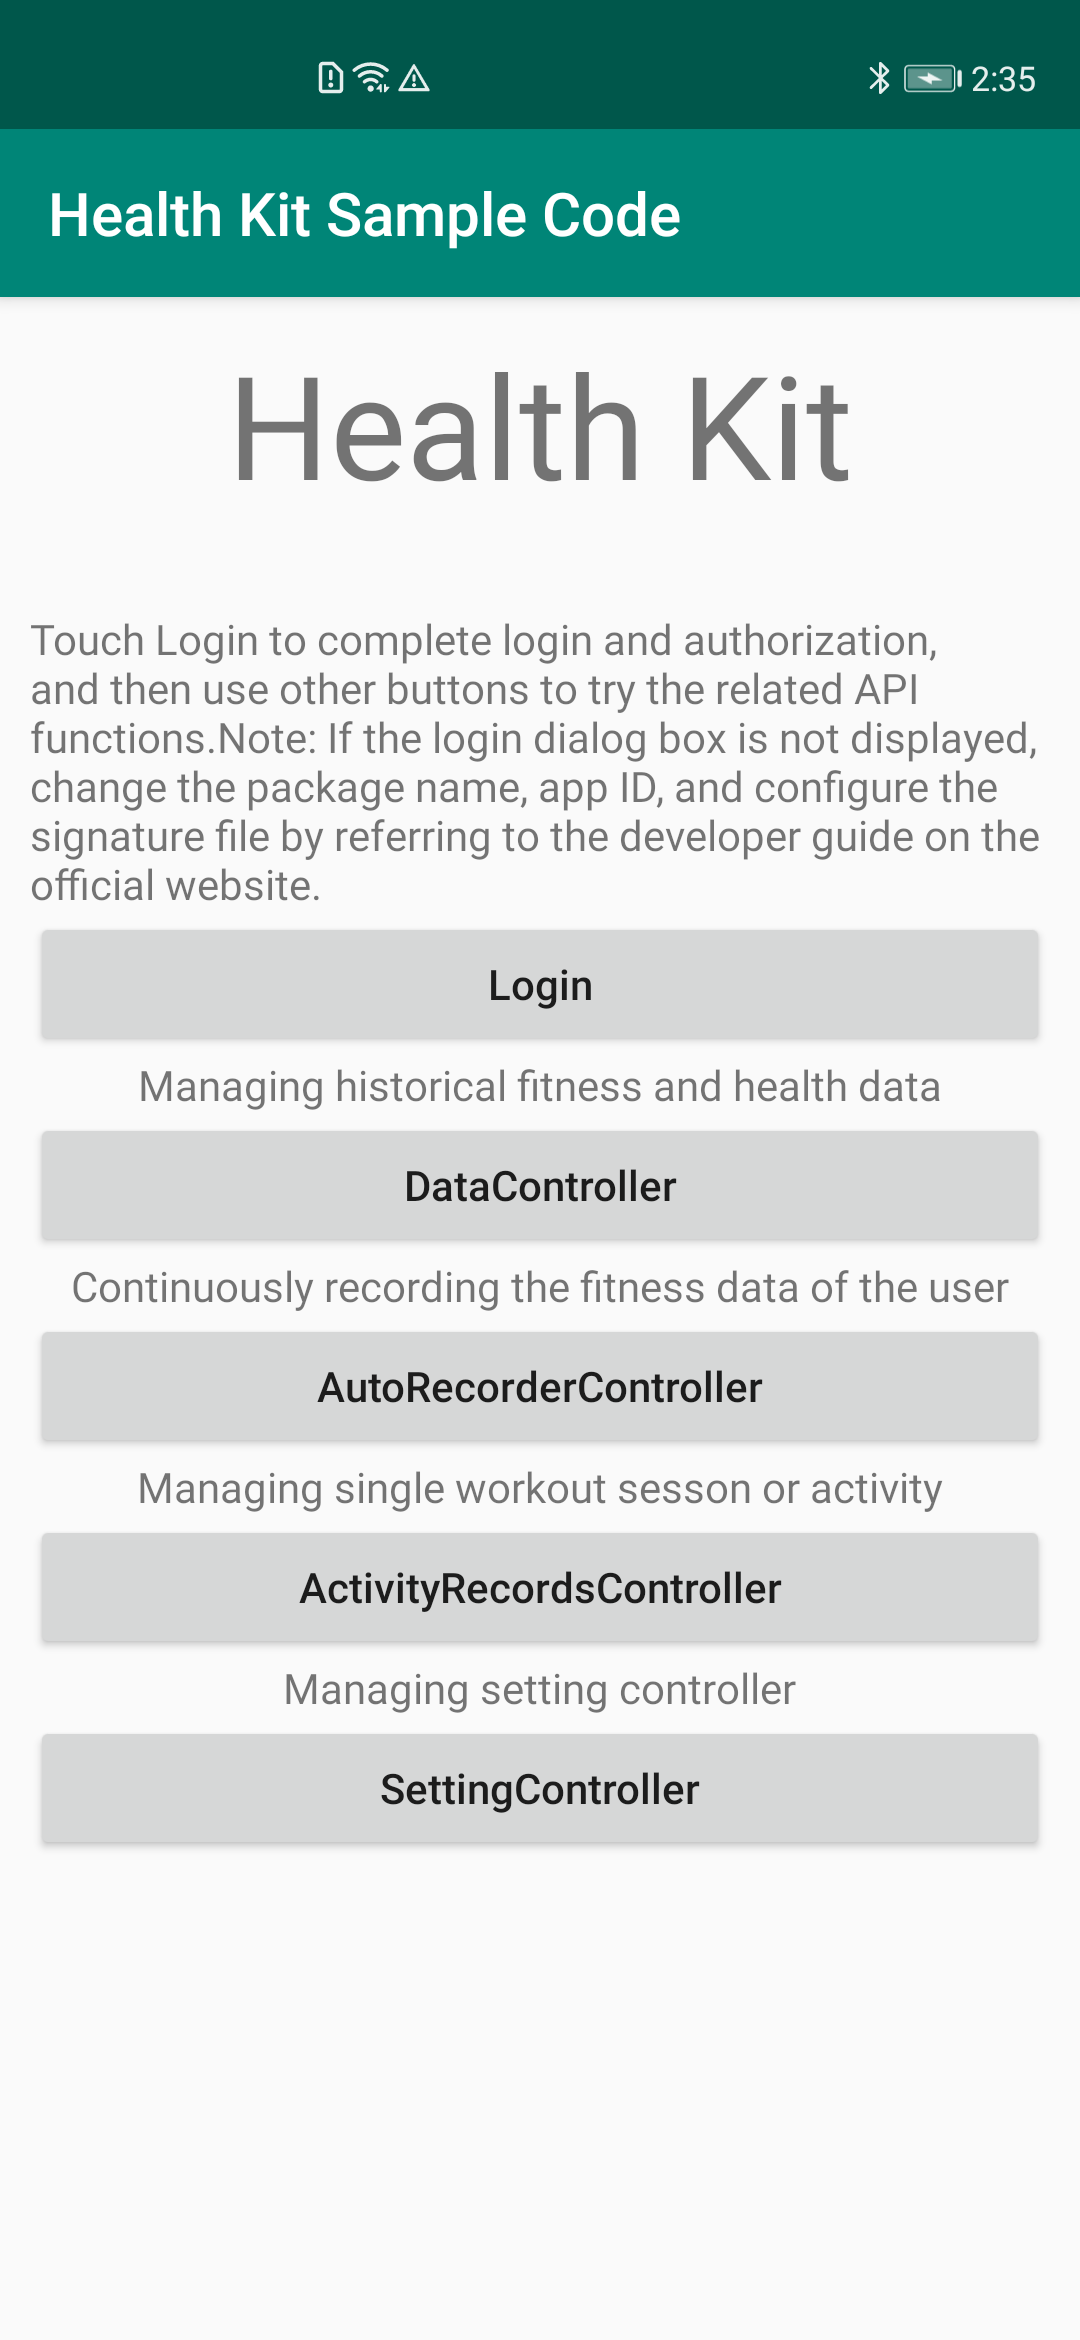
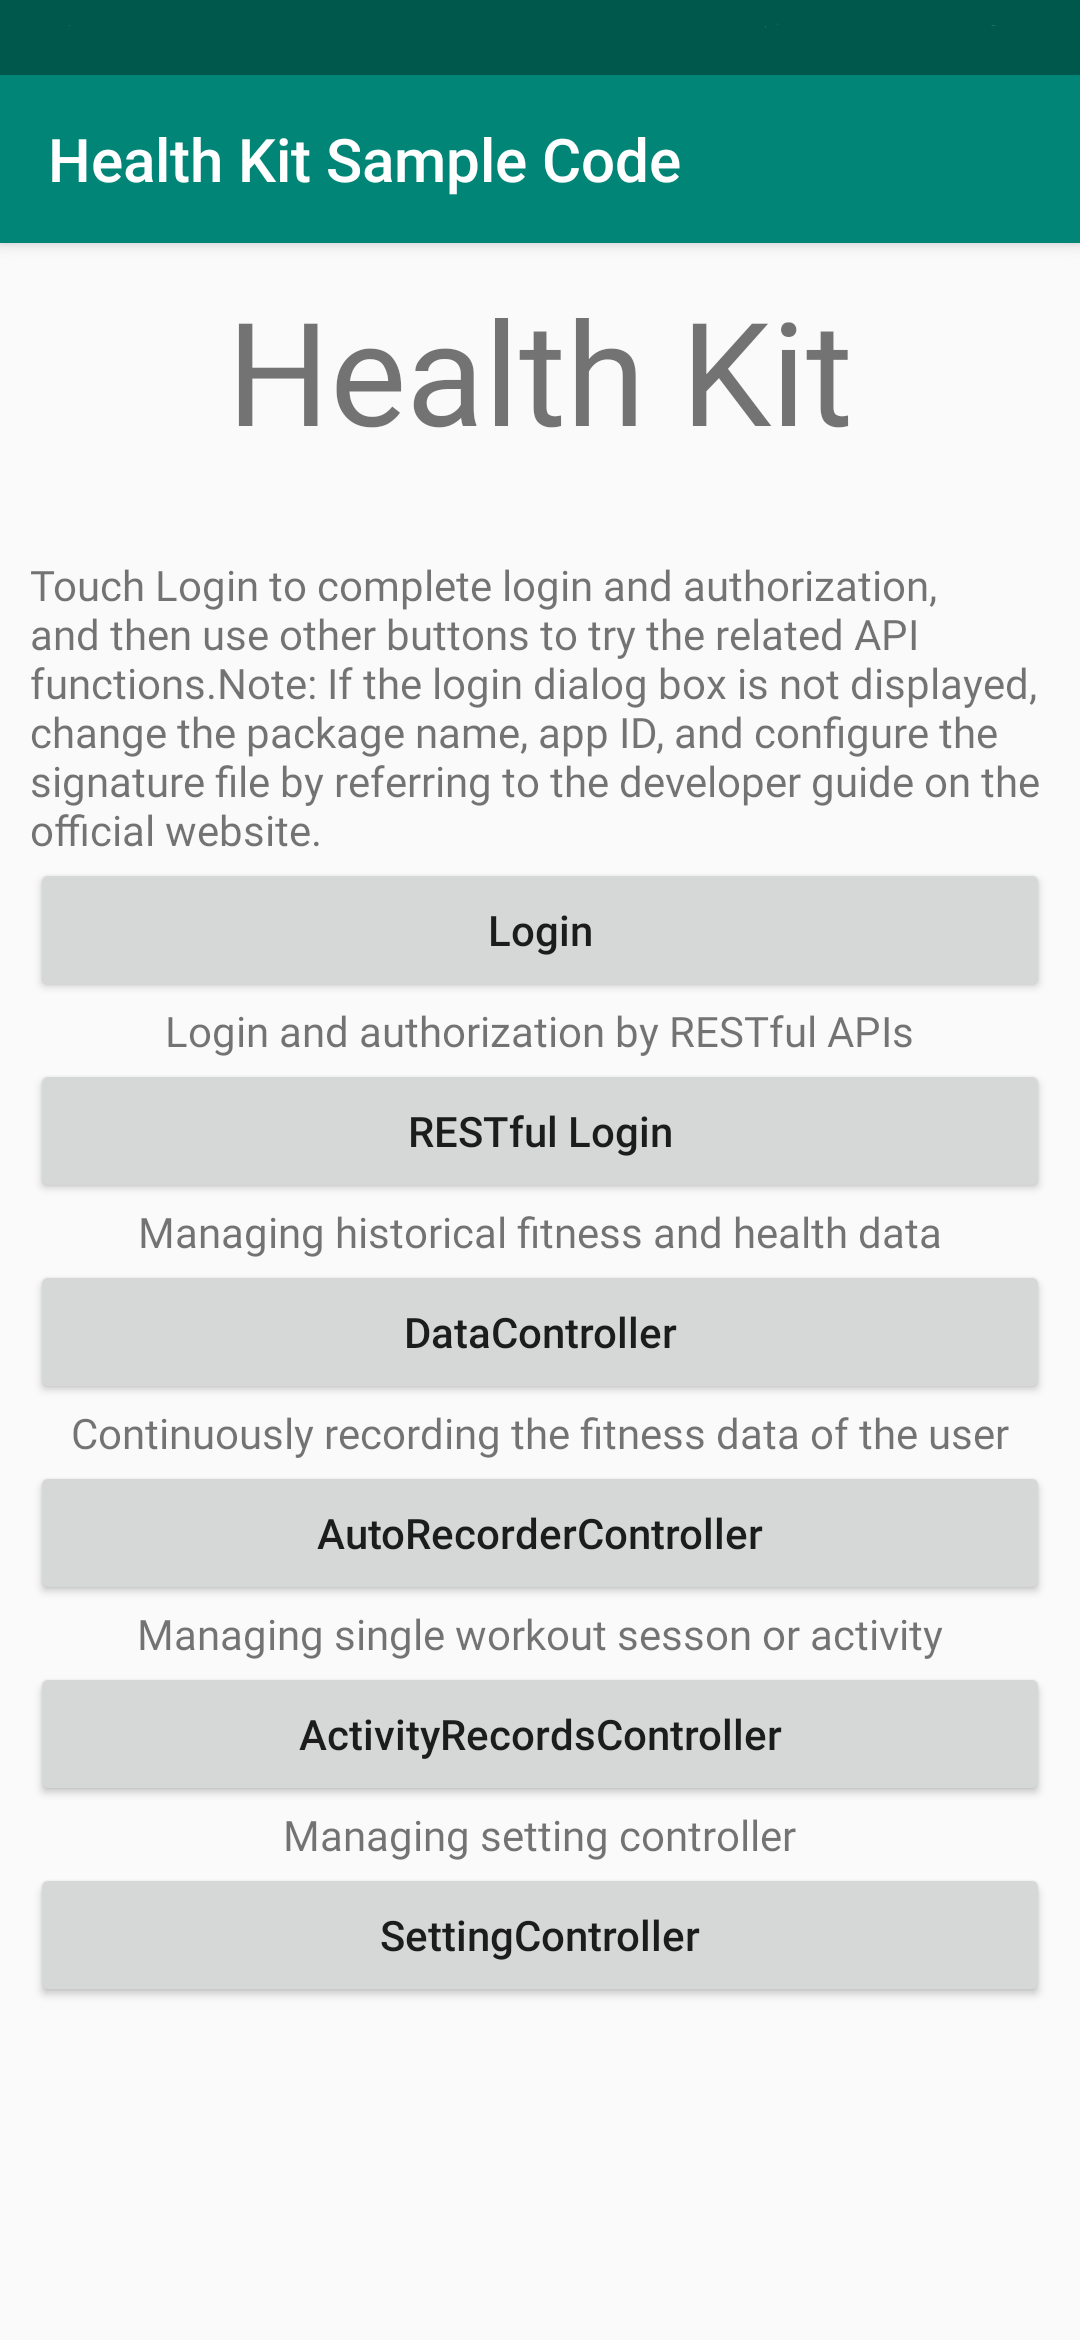
add Huawei Health auth demo

diff --git a/README_ZH.md b/README_ZH.md
@@ -18,34 +18,34 @@
 华为运动健康服务功能如下：  
 1) 	登录与授权  
 支持用户登录账号并获取用户对运动健康数据读写授权。  
-代码位置:  \app\src\main\java\com\huawei\demo\hihealth\HihealthKitMainActivity.java   
+Android APIs代码位置:  \app\src\main\java\com\huawei\demo\health\auth\HealthKitAuthClientActivity.java    
+RESTful APIs代码位置:  \app\src\main\java\com\huawei\demo\health\auth\HealthKitAuthCloudActivity.java   
 
 2) 	运动健康数据管理  
 支持用户对已授权的健康运动数据进行增加/删除/更新/查询等操作。  
 代码位置: \app\src\main\java\com\huawei\demo\hihealth\HihealthKitDataManagerActivity.java
 
-    
+
 3)	用户运动健康传感器接入  
 支持用户接入标准蓝牙协议传感器设备，并使用用户已授权的运动健康数据类型实时获取传感器设备数据。  
 代码位置: \app\src\main\java\com\huawei\demo\hihealth\HiHealthKitSensorsControllerActivity.java  
-   
+
 4)	自动记录用户接入设备的运动健康数据  
 支持在用户授权条件下，用户添加对接入的运动健康传感器的监听，并将传感器中的数据以用户已授权的运动健康数据类型实时写入到生态数据平台。  
 代码位置: \app\src\main\java\com\huawei\demo\hihealth\HiHealthKitAutoRecorderControllerActivity.java  
-   
-    
+
+
 5)	运动记录数据集操作  
 支持用户写入运动包含及其全部用户已授权的运动健康数据集，例如一次跑步运动包括跑步的开始时间，结束时间，以及运动数据（轨迹， 速度， 心率）等。  
 支持在用户授权条件下，用户创建一个运动（如跑步），然后开启跑步，在跑步过程中将用户授权的运动健康数据实时写入到生态数据平台，最后结束运动。  
 支持在用户授权条件下，管理用户的运动，包括查询，删除，修改运动数据等操作。  
 代码位置: \app\src\main\java\com\huawei\demo\hihealth\HihealthKitActivityRecordControllerActivity.java  
-   
-    
+
 6)	用户自定义数据类型  
 支持在用户授权条件下，开发可以创建自定义的数据类型，并使用自定义的数据类型写入用户的运动健康数据到生态数据平台。  
 支持用户取消已经添加到生态数据平台里的监听器。  
 代码位置: \app\src\main\java\com\huawei\demo\hihealth\HihealthKitSettingControllerActivity.java  
-   
+
 
 
 ## 开发准备  
@@ -62,7 +62,7 @@
     * 	在项目build.gradle的all projects->repositories中，配置HMS SDK的maven地址：maven {url 'http://developer.huawei.com/repo/' }
     * 	在项目build.gradle的buildscript-> dependencies中，配置HMS SDK的maven配置：maven {url 'http://developer.huawei.com/repo/' }
 3.	编译依赖：在app层级的build.gradle文件中增加编译依赖：implementation 'com.huawei.hms:hihealth-base:{version}'    
-4.	AppId信息：在应用的AndroidManifest.xml文件中添加在开发者联盟创建应用时生成的AppId信息。    
+4.	AppId信息：在应用的AndroidManifest.xml和HealthKitCloudLogin.java文件中添加在开发者联盟创建应用时生成的AppId信息。    
 
 
 ## 环境要求
@@ -71,7 +71,7 @@
 * HMS Core 4.0.4.207 及以上版本
 
 ## 操作结果
-   <img src="images/result_1.png" width = 30% height = 30%> <img src="images/result_2.png" width = 30% height = 30%> <img src="images/result_3.png" width = 30% height = 30%>
+   <img src="images/result_1.png" width = 30% height = 30%> <img src="images/result_6.png" width = 30% height = 30%> <img src="images/result_2.png" width = 30% height = 30%> <img src="images/result_3.png" width = 30% height = 30%>
    <img src="images/result_4.png" width = 30% height = 30%> <img src="images/result_5.png" width = 30% height = 30%>
 	
 ## 技术支持

diff --git a/README.md b/README.md
@@ -16,26 +16,28 @@ Health demo code encapsulates APIs of the HUAWEI Health Kit. It provides demo pr
 The following describes the functions of Health Kit:  
 1)  Login and Authorization  
 This function applies to login the account and enable the authorization.  
-Code location:  \app\SampleCode-Kotin\main\java\com\huawei\demo\health\HealthKitMainActivity.java   
-
+Android APIs code location:  \app\src\main\java\com\huawei\demo\health\auth\HealthKitAuthClientActivity.java   
+RESTful APIs code location:  \app\src\main\java\com\huawei\demo\health\auth\HealthKitAuthCloudActivity.java   
+    
 2)  Operate health and sport data  
 The function has ability to add/delete/update/query the health and sport data.  
-Code location: \app\SampleCode-Kotin\main\java\com\huawei\demo\health\HealthKitDataManagerActivity.java   
+Code location: \app\src\main\java\com\huawei\demo\health\HealthKitDataManagerActivity.java   
     
 3) Real time update  
 This function applies to update the real time data from sensors to the application layer.  
-Code location:  \app\SampleCode-Kotin\main\java\com\huawei\demo\health\HealthKitSensorsControllerActivity.java   
+Code location:  \app\src\main\java\com\huawei\demo\health\HealthKitSensorsControllerActivity.java   
+    
 4) Auto-record the health data  
 This function can enable and disable the automatically record method for the health data.  
-Code location: \app\SampleCode-Kotin\main\java\com\huawei\demo\health\HealthKitAutoRecorderControllerActivity.java   
+Code location: \app\src\main\java\com\huawei\demo\health\HealthKitAutoRecorderControllerActivity.java   
     
 5) Operate Activity Record   
 This function can create and manage a single sport or activity.  
-Code location:  \app\SampleCode-Kotin\main\java\com\huawei\demo\health\HealthKitActivityRecordControllerActivity.java   
+Code location:  \app\src\main\java\com\huawei\demo\health\HealthKitActivityRecordControllerActivity.java   
     
 6) Operate DataType and Records  
 This function can add/read DataType and cancel All Records.   
-Code location:  \app\SampleCode-Kotin\main\java\com\huawei\demo\health\HealthKitSettingControllerActivity.java   
+Code location:  \app\src\main\java\com\huawei\demo\health\HealthKitSettingControllerActivity.java   
 
 ## Getting Started
 Before using Health demo code, check whether the IDE environment has been installed. 
@@ -50,7 +52,7 @@ To use functions provided by packages in examples, you need to set parameters as
     * Configure the maven address of the HMS SDK in allprojects-> repositories of project's build.gradle : maven {url 'http://developer.huawei.com/repo/'}
     * Add maven configuration of HMS SDK in buildscript-> dependencies : maven {url 'http://developer.huawei.com/repo/'}
 3. Compile dependencies: Add compile dependencies in model's build.gradle : implementation 'com.huawei.hms:hihealth-base:{version}'
-4. AppId info: In the application AndroidManifest.xml, add the appId information generated by the Developer Alliance when creating the application
+4. AppId info: In the application AndroidManifest.xml and HealthKitCloudLogin.java, add the appId information generated by the Developer Alliance when creating the application
 
 ## Supported Environments
 * Android Studio 3.0 or later
@@ -59,6 +61,7 @@ To use functions provided by packages in examples, you need to set parameters as
 
 ## Result
    <img src="images/result_1.png" width = 30% height = 30%>
+   <img src="images/result_6.png" width = 30% height = 30%>
    <img src="images/result_2.png" width = 30% height = 30%>
    <img src="images/result_3.png" width = 30% height = 30%>
    <img src="images/result_4.png" width = 30% height = 30%>
